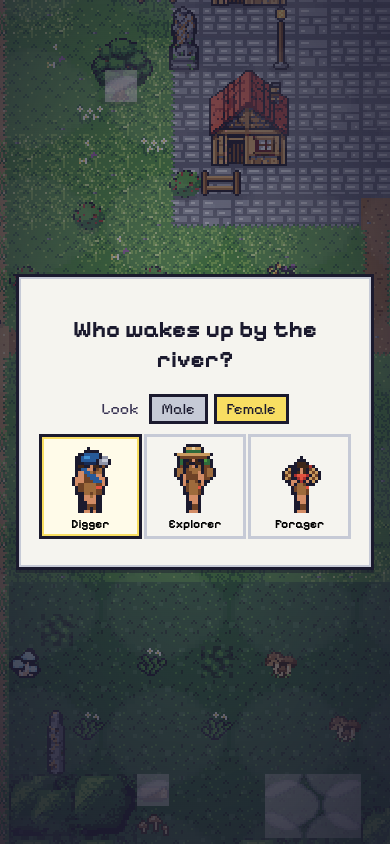
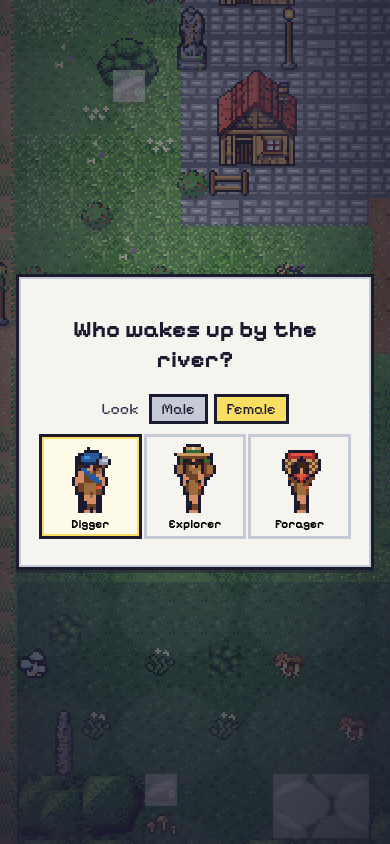
polish: the forager's basket reads as a basket from the front

diff --git a/tools/src/kit/roles.ts b/tools/src/kit/roles.ts
@@ -269,12 +269,14 @@ const explorer: Role = {
 };
 
 const BASKET_FRONT: string[] = [
-  '..0mnnnnnm0..',
-  '.0ecececece0.',
-  '0ececececece0',
+  '..000000000..',
+  '.0mnnnnnnnm0.',
+  '.0mmmmmmmmm0.',
+  '0eceececeece0',
   '0cececececec0',
-  '0ececececece0',
-  '.0ecececece0.',
+  '0eceececeece0',
+  '0cececececec0',
+  '.0eceececec0.',
   '..0ccccccc0..',
 ];
 
@@ -283,7 +285,8 @@ const forager: Role = {
   build: { cutRows: [15, 13, 11, 9], cutCols: [0, 3], dupCols: [] },
   items: {
     down: [
-      { anchor: 'torso', layer: 'back', dy: -4, grid: BASKET_FRONT },
+      { anchor: 'torso', layer: 'back', dy: -9, grid: BASKET_FRONT },
+      { anchor: 'torso', layer: 'front', dy: 0, grid: ['.cc.....cc.', '..cc...cc..', '...c...c...'] },
       { anchor: 'torso', layer: 'front', dy: -1, grid: ['0mnnnm0', '.0mnm0.', '..0m0..'] },
     ],
     left: [

diff --git a/DECISIONS.md b/DECISIONS.md
@@ -1396,4 +1396,4 @@ The threshold of the night ruins (`core/night-threshold`) is marked safe. The ti
 
 ## 2026-10-11 ✅ The three starters have their own pixel look, derived from the base sheets by `tools/src/kit/roles.ts`
 
-The forager, digger and explorer no longer draw `chars/player_*` / `woman_*`. Each has a man and a woman (`<role>_*`, `<role>_w_*`) in walk, idle and work sheets, four directions (right is the left sheet mirrored). Builds are rows and columns cut from or copied into the base frame (forager short and slight, digger broad, explorer lean); the item is a palette-letter grid laid on a head or torso spot found on each frame (work frames use hand-read spots): explorer straw hat + pack with a moss-green roll, forager wicker basket + rust-red neckerchief and lining (no head wrap), digger indigo cap + spade. Work to the side and back for the woman reuses the man's pose (the base has no woman sheet for it). Frames: `docs/design/frames/2026-10-11-starter-looks-{man,woman}.png`, three side by side at 390x844, told apart by hat, cap and red. Agreed direction (2026-10-09 role entry), so no stills round. The generator is committed: rerun it after a base sheet changes. **Retry when:** the owner finds a role unclear in play (the forager's basket reads as wings from the front). Model: claude-sonnet-5-5.
+The forager, digger and explorer no longer draw `chars/player_*` / `woman_*`. Each has a man and a woman (`<role>_*`, `<role>_w_*`) in walk, idle and work sheets, four directions (right is the left sheet mirrored). Builds are rows and columns cut from or copied into the base frame (forager short and slight, digger broad, explorer lean); the item is a palette-letter grid laid on a head or torso spot found on each frame (work frames use hand-read spots): explorer straw hat + pack with a moss-green roll, forager wicker basket + rust-red neckerchief and lining (no head wrap), digger indigo cap + spade. Work to the side and back for the woman reuses the man's pose (the base has no woman sheet for it). Frames: `docs/design/frames/2026-10-11-starter-looks-{man,woman}.png`, three side by side at 390x844, told apart by hat, cap and red. Agreed direction (2026-10-09 role entry), so no stills round. The generator is committed: rerun it after a base sheet changes. **Retry when:** the owner finds a role unclear in play (the forager basket was reworked into a tall basket seen behind the head). Model: claude-sonnet-5-5.
